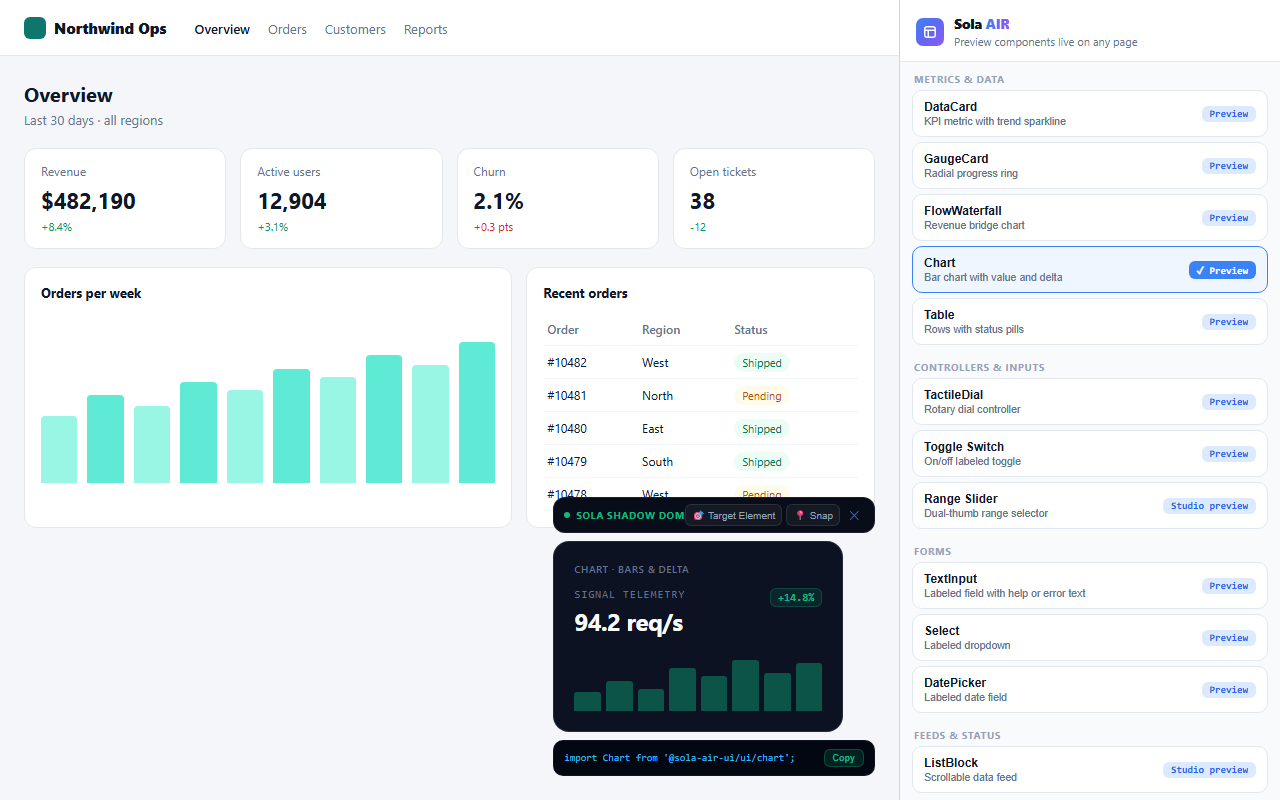
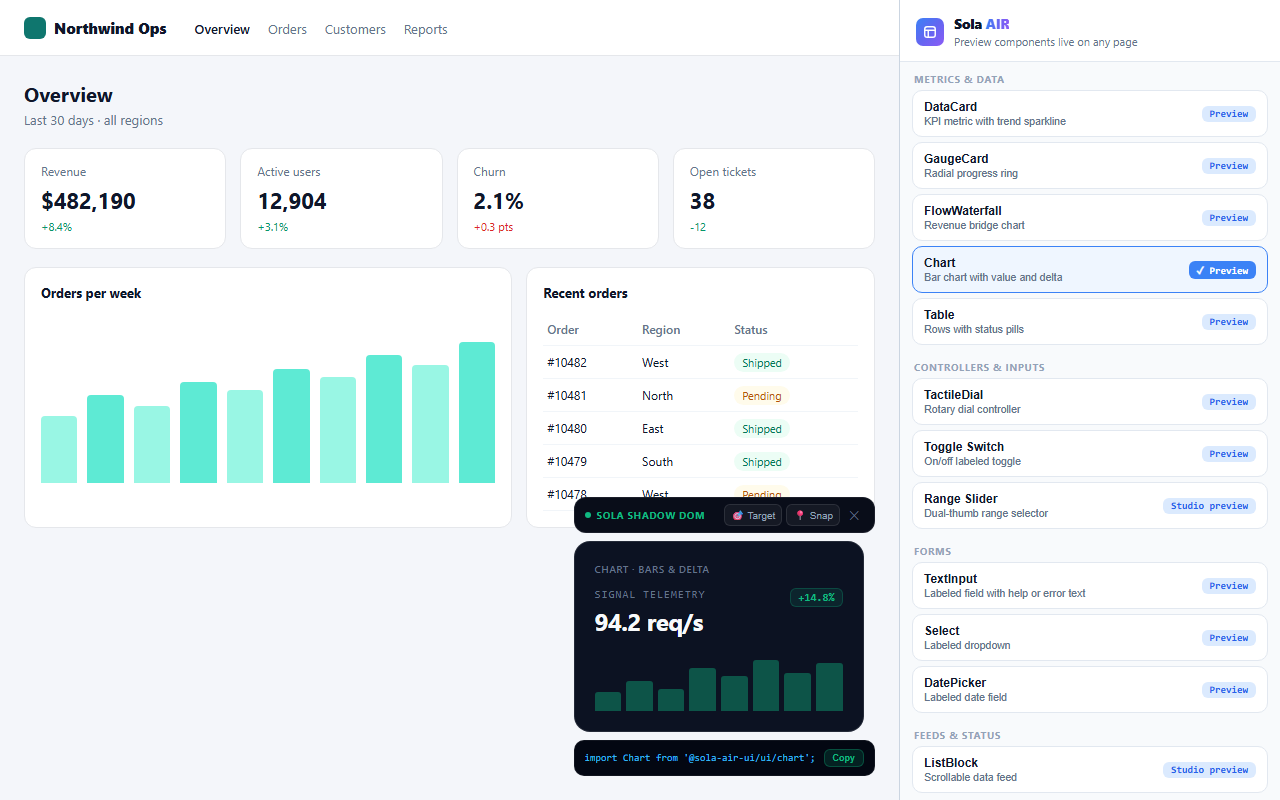
Extension: stop the preview header label overlapping its buttons
The header had no gap and its controls could shrink, so on a 310px preview
the label ran under the Target Element button. Add a gap, keep the controls
at full width, clip the label, and shorten the button to "Target" to match
the target-mode header. Rebuild the zip and retake the store screenshots.

Changed region(s): [[0.4062, 0.625, 0.6875, 0.9688]]

diff --git a/packages/sola-extension/content.js b/packages/sola-extension/content.js
@@ -277,15 +277,15 @@
       @keyframes slideIn { from { opacity: 0; transform: translateY(8px) scale(0.97); } to { opacity: 1; transform: none; } }
       .wrap { animation: slideIn 0.2s cubic-bezier(0.16,1,0.3,1); }
       .header {
-        display: flex; align-items: center; justify-content: space-between;
+        display: flex; align-items: center; justify-content: space-between; gap: 8px;
         padding: 6px 10px; margin-bottom: 8px;
         background: #090d19; border: 1px solid rgba(255,255,255,0.08);
         border-radius: 12px; cursor: grab; user-select: none;
       }
       .header:active { cursor: grabbing; }
-      .label { font-size: 10px; font-weight: 700; color: #10b981; text-transform: uppercase; letter-spacing: 0.05em; display: flex; align-items: center; gap: 6px; }
+      .label { font-size: 10px; font-weight: 700; color: #10b981; text-transform: uppercase; letter-spacing: 0.05em; display: flex; align-items: center; gap: 6px; min-width: 0; white-space: nowrap; overflow: hidden; text-overflow: ellipsis; }
       .dot { width: 6px; height: 6px; border-radius: 50%; background: #10b981; }
-      .controls { display: flex; align-items: center; gap: 4px; }
+      .controls { display: flex; align-items: center; gap: 4px; flex-shrink: 0; }
       .btn { background: rgba(255,255,255,0.05); border: 1px solid rgba(255,255,255,0.1); color: #94a3b8; cursor: pointer; padding: 3px 6px; border-radius: 6px; font-size: 10px; transition: all 0.15s; }
       .btn:hover { color: #fff; background: rgba(255,255,255,0.15); }
       .close { background: none; border: none; color: #64748b; cursor: pointer; padding: 3px 5px; border-radius: 4px; font-size: 12px; }
@@ -305,7 +305,7 @@
       <div class="header" id="drag-hdr">
         <span class="label"><span class="dot"></span>Sola Shadow DOM</span>
         <div class="controls">
-          <button class="btn" id="target-btn">🎯 Target Element</button>
+          <button class="btn" id="target-btn">🎯 Target</button>
           <button class="btn" id="snap-btn">📍 Snap</button>
           <button class="close" id="close-btn">✕</button>
         </div>
@@ -816,11 +816,11 @@
       * { box-sizing: border-box; margin: 0; padding: 0; }
       @keyframes slideIn { from { opacity: 0; transform: translateY(8px) scale(0.97); } to { opacity: 1; transform: none; } }
       .wrap { animation: slideIn 0.2s cubic-bezier(0.16,1,0.3,1); }
-      .header { display:flex; align-items:center; justify-content:space-between; padding:6px 10px; margin-bottom:8px; background:#090d19; border:1px solid rgba(255,255,255,0.08); border-radius:12px; cursor:grab; user-select:none; }
+      .header { display:flex; align-items:center; justify-content:space-between; gap:8px; padding:6px 10px; margin-bottom:8px; background:#090d19; border:1px solid rgba(255,255,255,0.08); border-radius:12px; cursor:grab; user-select:none; }
       .header:active { cursor:grabbing; }
-      .label { font-size:10px; font-weight:700; color:#10b981; text-transform:uppercase; letter-spacing:0.05em; display:flex; align-items:center; gap:6px; }
+      .label { font-size:10px; font-weight:700; color:#10b981; text-transform:uppercase; letter-spacing:0.05em; display:flex; align-items:center; gap:6px; min-width:0; white-space:nowrap; overflow:hidden; text-overflow:ellipsis; }
       .dot { width:6px; height:6px; border-radius:50%; background:#10b981; }
-      .controls { display:flex; align-items:center; gap:4px; }
+      .controls { display:flex; align-items:center; gap:4px; flex-shrink:0; }
       .btn { background:rgba(255,255,255,0.05); border:1px solid rgba(255,255,255,0.1); color:#94a3b8; cursor:pointer; padding:3px 6px; border-radius:6px; font-size:10px; transition:all 0.15s; }
       .btn:hover { color:#fff; background:rgba(255,255,255,0.15); }
       .close { background:none; border:none; color:#64748b; cursor:pointer; padding:3px 5px; border-radius:4px; font-size:12px; }

diff --git a/CHANGELOG.md b/CHANGELOG.md
@@ -12,6 +12,7 @@ All notable fixes and changes to the Sola AIR packages. Dates are UTC.
   21 previews, 16 of them in `@sola-air-ui/ui`.
 - **Fixed**: page scraping reads values with a leading currency symbol (`$482,190`, `€1.2M`).
   Before, the DataCard skipped them and could use them as labels.
+- **Fixed**: the preview header's "Sola Shadow DOM" label no longer runs into the Target button.
 
 ## Unreleased
 
